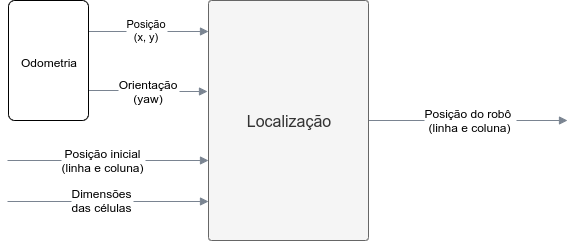
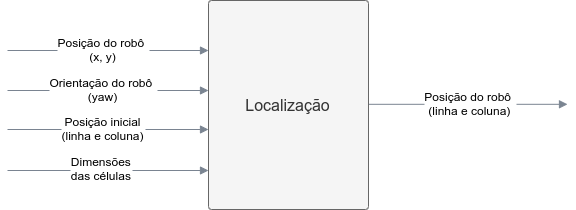
Atualiza tópico de funcionalidades

diff --git a/Chapters/ChapterThree.tex b/Chapters/ChapterThree.tex
@@ -297,7 +297,17 @@ Como explicado no tópico \ref{sec:modelo_mecanico} o Doogie Mouse possui duas P
 %--------- NEW SECTION ----------------------
 \section{Especificação das funcionalidades}
 \label{sec:especificacao_das_funcionalidades}
-As funcionalidades de um robô descrevem os subsistemas e a lógica de operação dos mesmos. No Doogie, existem quatro funcionalidades principais: Localização, Percepção, Navegação e Usabilidade. A descrição de cada funcionalidade é mostrada nos tópicos subsequentes.
+As funcionalidades de um robô descrevem os subsistemas e a lógica de operação dos mesmos. No Doogie, existem quatro funcionalidades principais: Localização, Percepção, Navegação e Usabilidade. O fluxo de informações de tais funcionalidades pode ser visualizado na Figura \ref{fig:especificacao_funcional_geral}. Observa-se nesse fluxograma como cada funcionalidade está interligada com as demais e quais informações são trafegadas entre elas. Para melhor entendimento, é descrito nos tópicos sequentes cada funcionalidade.
+
+\begin{figure}[H]
+	\centering
+	\captionsetup{justification=centering}
+	\caption{Fluxo de informações das funcionalidades Localização, Percepção, Navegação e Usabilidade.}
+	\includegraphics[width=1\textwidth]
+	{Figures/especificacao_funcional_geral}
+	\label{fig:especificacao_funcional_geral}
+	\source{Própria Autoria}
+\end{figure}
 
 \subsection{Localização}
 \label{ssec:funcionalidade_localizacao}
@@ -474,9 +484,6 @@ As entradas e saída da funcionalidade Navegação podem ser visualizadas na Fig
 	\label{fig:especificacao_funcional_usabilidade}
 	\source{Própria Autoria}
 \end{figure}
-
-\subsection{Fluxo das informações}
-\label{ssec:fluxo_das_informacoes}
 
 
 %--------- NEW SECTION ----------------------
